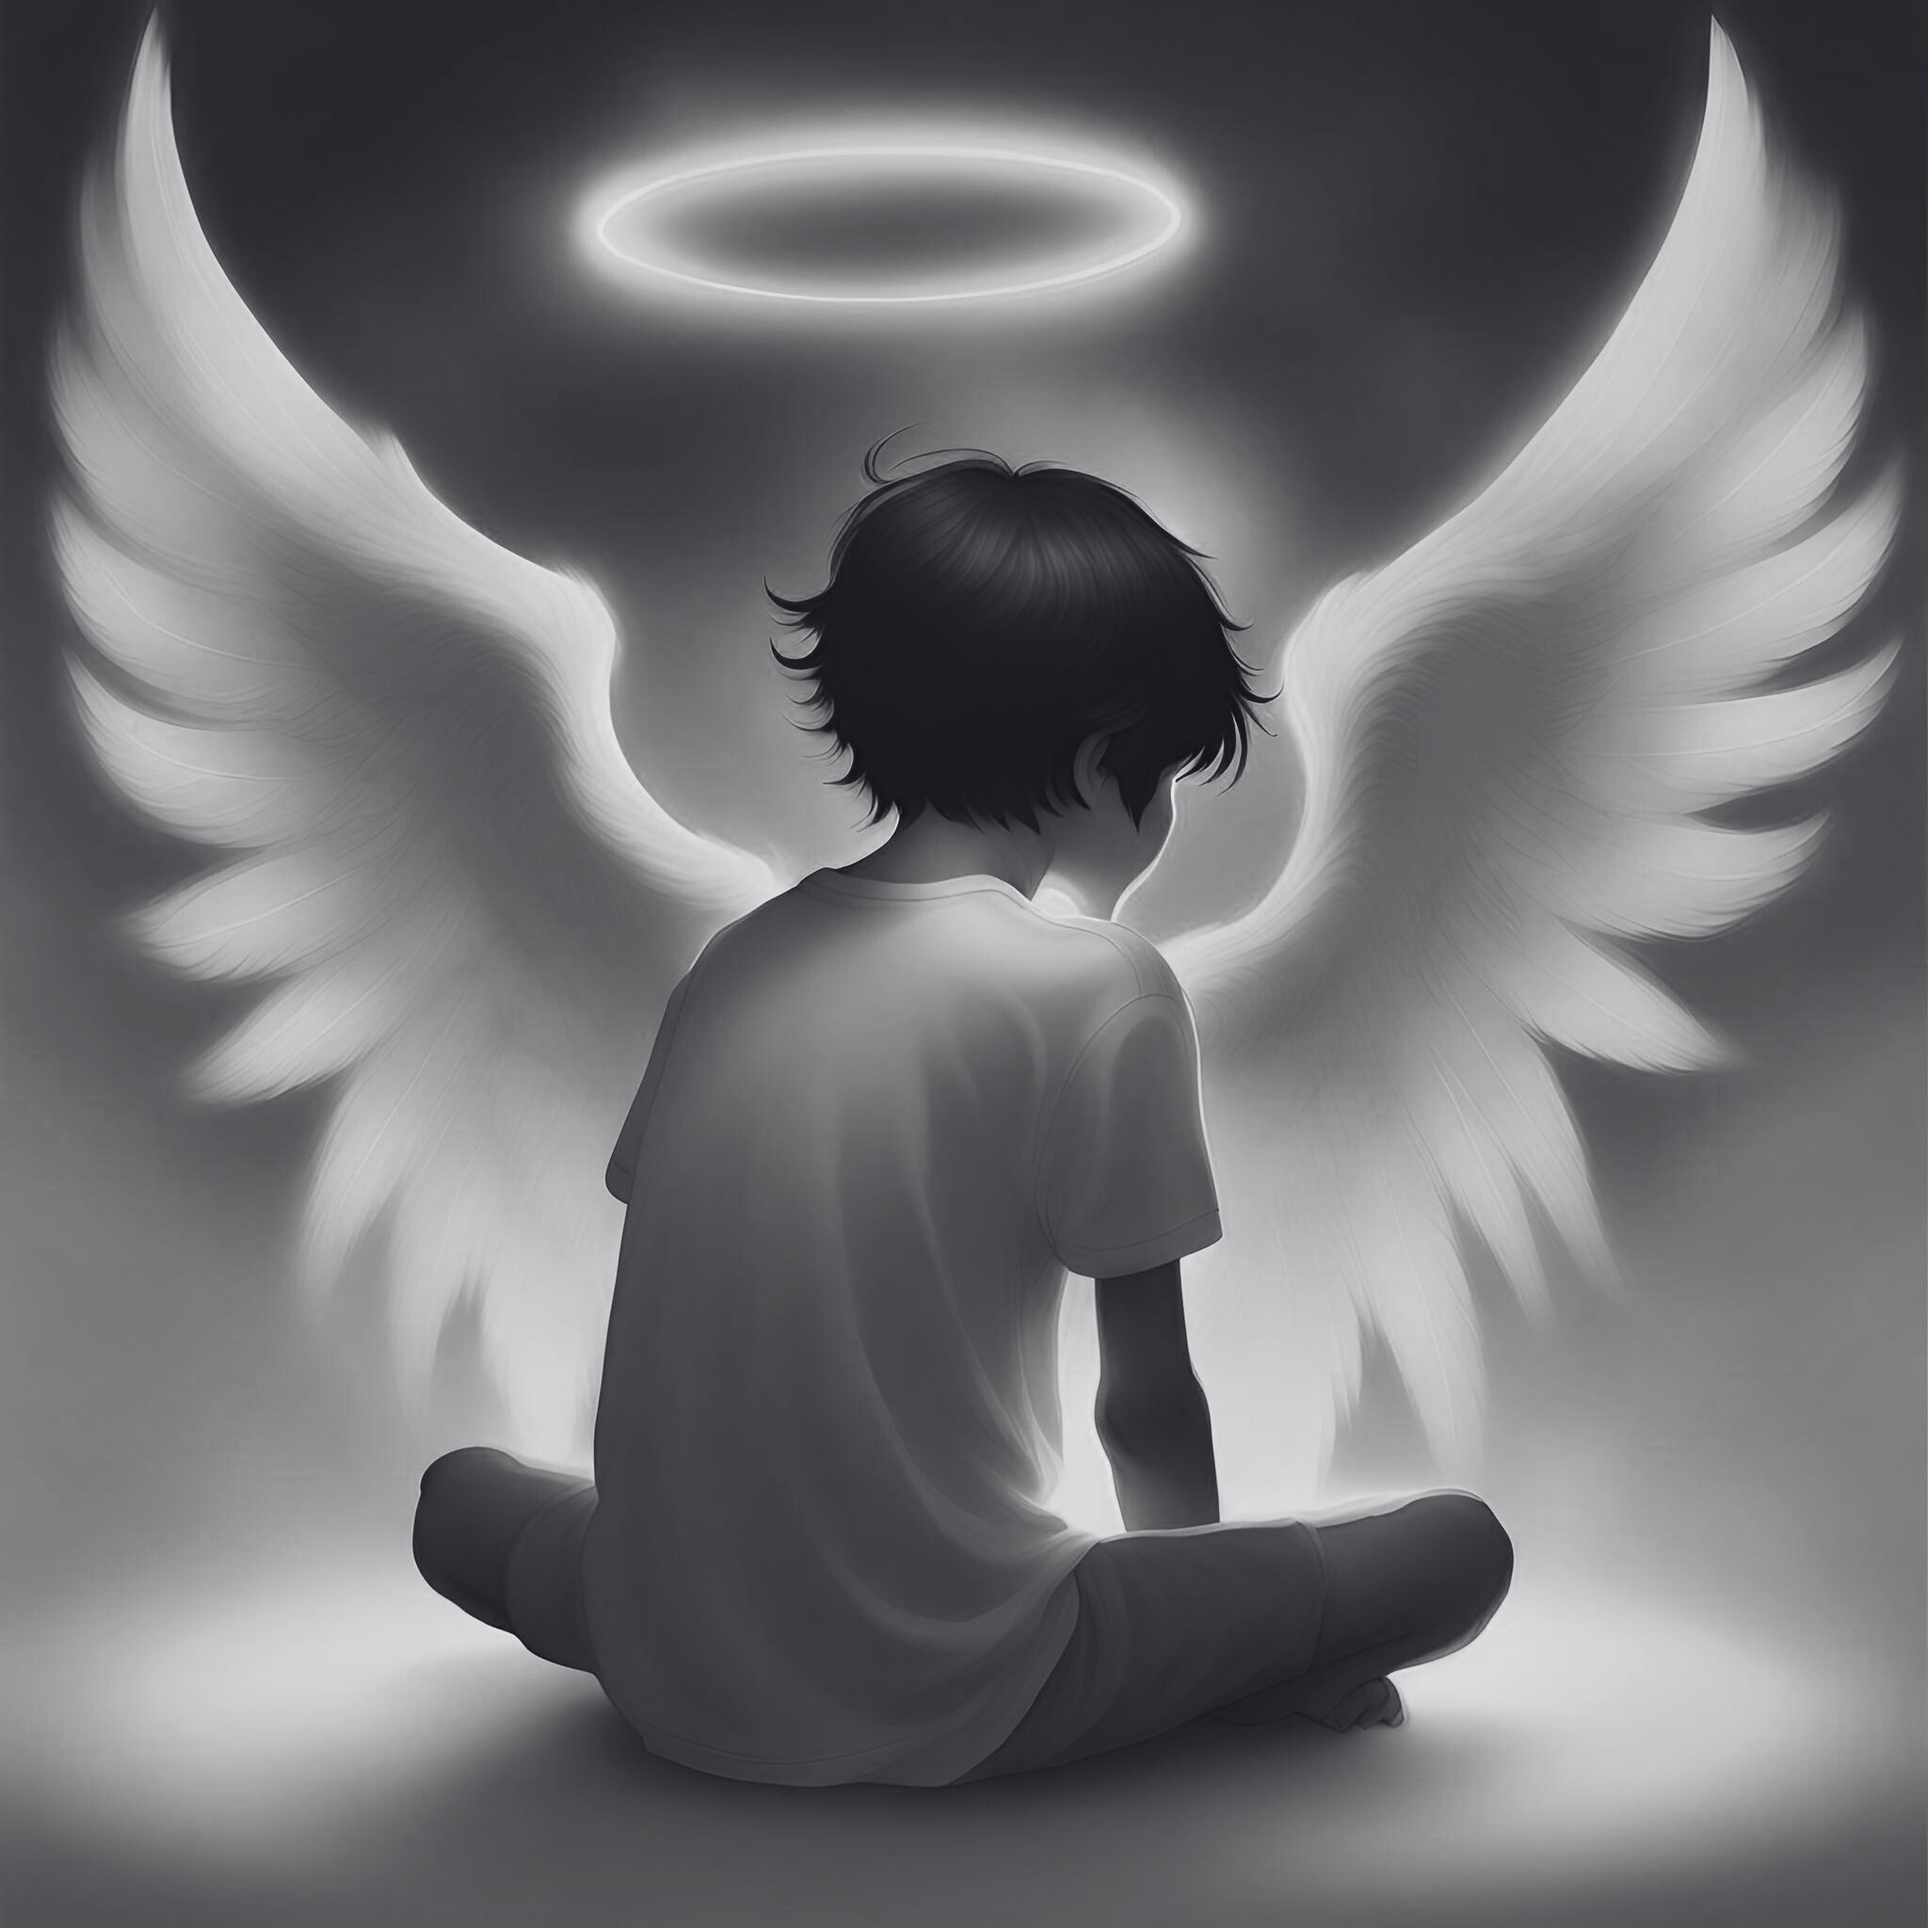
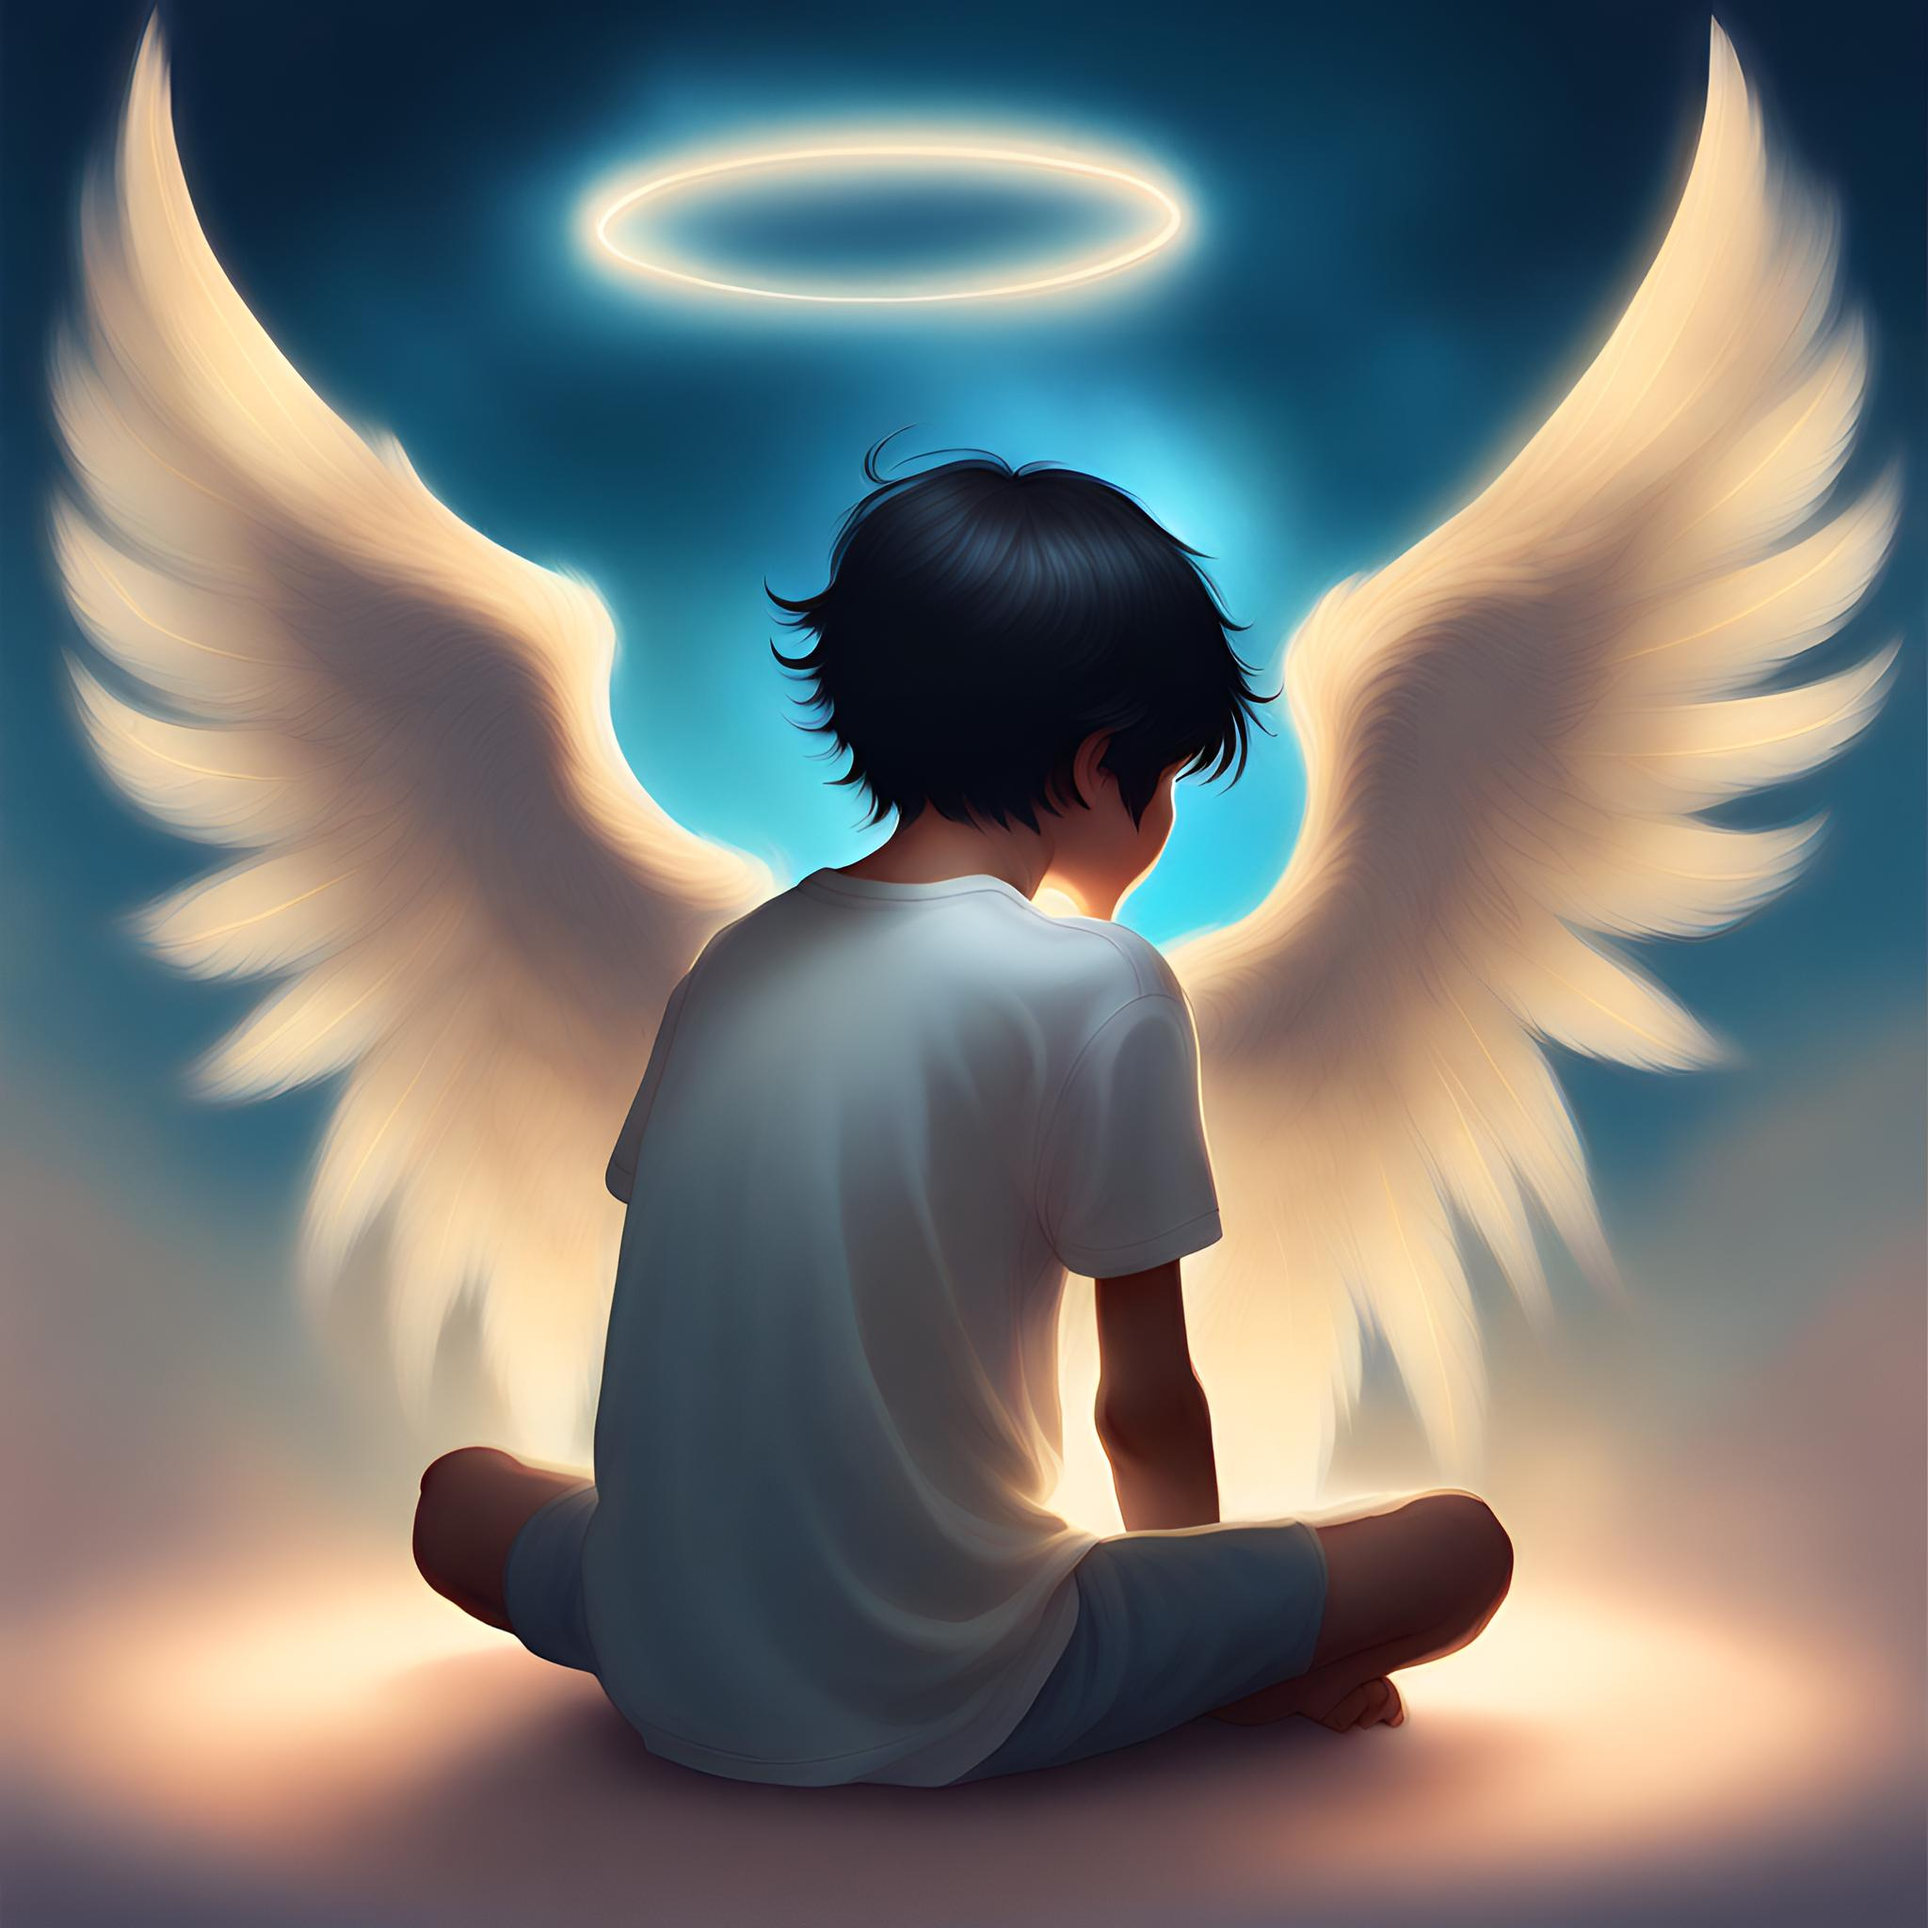
css index

diff --git a/src/pages/index.jsx b/src/pages/index.jsx
@@ -53,10 +53,12 @@ const StyledHome = styled.section`
     width: 100%;
     height: auto;
     max-width: 100%;
-    transition: transform 0.7s ease;
+    transition: transform 0.7s ease, filter 2s ease;
+    filter: grayscale(100%);
     &:hover,
     &:focus {
       transform: scale(1.1);
+      filter: grayscale(0);
     }
   }
 
